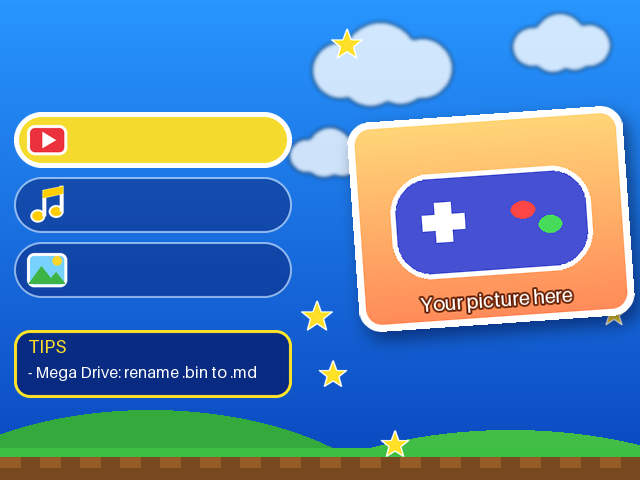
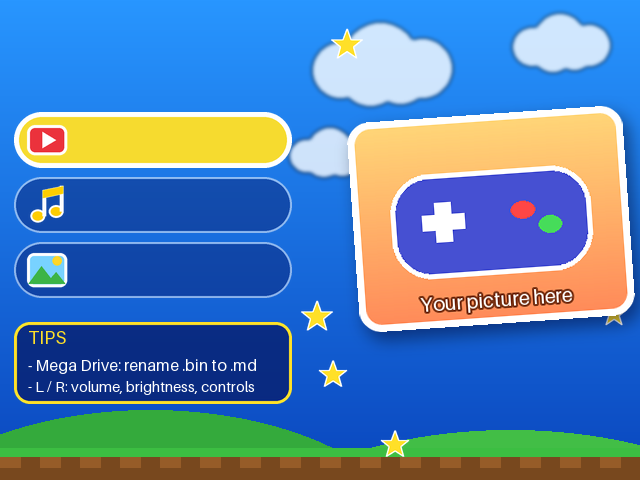
v1.0.2: simple Settings page (volume, brightness, controls per console) + docs

Changed region(s): [[0.0, 0.6562, 0.4688, 0.8438]]

diff --git a/r36skit/build.py b/r36skit/build.py
@@ -134,7 +134,7 @@ def build(cfg_path: Path | None, stock: Path, out: Path, force: bool = False, lo
     log("[2/6] main menu pictures / imagens do menu principal (UI_Res.cpd)")
     raws, shots = screens.build_ui_res_backgrounds(theme)
     rewrite_zip(cubegm / "UI_Res.cpd", ocube / "UI_Res.cpd", {n + ".raw": b for n, b in raws.items()})
-    for name in ("MovieBg", "MusicBg", "PhotoBg", "DOWNLOAD"):
+    for name in ("MovieBg", "MusicBg", "PhotoBg", "DOWNLOAD", "SetVolume", "SetLight", "SetKeyMap"):
         shots[name].convert("RGB").save(preview / ("menu_%s.png" % name))
 
     # 3. resource.cpd: game list, loading, pause, search, footer ------------------------------------------

diff --git a/README.pt-BR.md b/README.pt-BR.md
@@ -9,13 +9,15 @@ Só quatro botões grandes – **Jogos · Vídeos · Músicas · Fotos** – com
 |---|---|---|
 | ![menu](docs/images/menu_MovieBg.png) | ![jogos](docs/images/game_list.png) | ![abertura](docs/images/start_screen.png) |
 
+![ajustes](docs/images/settings.png)
+
 > As imagens acima são os **placeholders** (imagens de exemplo) que já vêm no projeto. Você troca pelas suas em um minuto.
 
-> ⚠ **Status: versão inicial (v1.0.1).** O menu, as alterações de código e a ferramenta foram testados em **um** console real (clone R36SX V2.6, HiChip HC1600A). A *ferramenta de build* e os pacotes com imagens de exemplo foram verificados no PC e a estrutura dos arquivos bate com a original, mas os pacotes **ainda não foram executados num console**. Por favor teste e [abra uma issue](../../issues) com o resultado (funcionou / não, e o seu modelo). Mantenha um backup do cartão SD.
+> ⚠ **Status: versão inicial (v1.0.2).** O menu, as alterações de código e a ferramenta foram testados em **um** console real (clone R36SX V2.6, HiChip HC1600A). A *ferramenta de build* e os pacotes com imagens de exemplo foram verificados no PC e a estrutura dos arquivos bate com a original, mas os pacotes **ainda não foram executados num console**. Por favor teste e [abra uma issue](../../issues) com o resultado (funcionou / não, e o seu modelo). Mantenha um backup do cartão SD.
 
 ## O que você ganha
 
-- 🧒 Menu reduzido a **Jogos / Vídeos / Músicas / Fotos** (ajustes, e-books e lista de consoles ficam ocultos).
+- 🧒 Menu reduzido a **Jogos / Vídeos / Músicas / Fotos**, mais uma página simples de **Ajustes** só com **volume, brilho e controles** (mapeamento de teclas por console). Idioma, tamanho da tela, restaurar de fábrica, e-books e lista de consoles ficam ocultos.
 - 🎨 **Suas cores, textos e idioma** (Português ou English; para outro idioma basta copiar um arquivo de textos) – tudo em um arquivo simples, o `config.toml`.
 - 🖼 **Sua foto** na tela de abertura e um **mascote/logo** nos menus. Sem imagem? Usa uma imagem desenhada.
 - ▶ **Volta ao jogo que estava rodando**: se você desligar o aparelho *jogando*, ele reabre esse jogo ao ligar. Se saiu do jogo antes (ou segurou **B** ao ligar), liga no menu.

diff --git a/README.md b/README.md
@@ -9,13 +9,15 @@ Only four big buttons – **Games · Videos · Music · Photos** – your own co
 |---|---|---|
 | ![menu](docs/images/menu_MovieBg.png) | ![games](docs/images/game_list.png) | ![start](docs/images/start_screen.png) |
 
+![settings](docs/images/settings.png)
+
 > The pictures above are the **built-in placeholders**. You replace them with your own in one minute (see below).
 
-> ⚠ **Status: early release (v1.0.1).** The menu, the code changes and the build tool were tested on **one** real console (R36SX V2.6 clone, HiChip HC1600A). The *build tool* and the placeholder-art packs were checked on a PC and the file structure matches the original, but the packs were **not yet run on a console**. Please test and [open an issue](../../issues) with your result (works / doesn't, and your model). Keep a backup of your SD card.
+> ⚠ **Status: early release (v1.0.2).** The menu, the code changes and the build tool were tested on **one** real console (R36SX V2.6 clone, HiChip HC1600A). The *build tool* and the placeholder-art packs were checked on a PC and the file structure matches the original, but the packs were **not yet run on a console**. Please test and [open an issue](../../issues) with your result (works / doesn't, and your model). Keep a backup of your SD card.
 
 ## What you get
 
-- 🧒 Menu reduced to **Games / Videos / Music / Photos** (settings, e-books and console list are hidden).
+- 🧒 Menu reduced to **Games / Videos / Music / Photos**, plus a simple **Settings** page with only **volume, brightness and controls** (button mapping per console). Language, screen size, factory reset, e-books and the console list are hidden.
 - 🎨 **Your colours, texts, language** (English or Português; add more by copying one text file) – everything in one easy file, `config.toml`.
 - 🖼 **Your photo** on the start screen and a **mascot/logo** on the menus. No picture? A drawn placeholder is used.
 - ▶ **Resume the game you were playing**: if you switch the console off *while playing*, it re-opens that game at the next power-on. If you quit the game first (or hold **B** at power-on) it starts in the menu.

diff --git a/docs/pt-BR/GUIA.md b/docs/pt-BR/GUIA.md
@@ -64,7 +64,10 @@ Copie tudo que está dentro de **`output`** (as pastas `cubegm` e `roms`) para a
 
 | Você faz | O que acontece |
 |---|---|
-| **L1 / R1** | Alterna entre Jogos, Vídeos, Músicas, Fotos |
+| **L1 / R1** | Percorrem as páginas: Jogos → Vídeos/Músicas/Fotos → Ajustes |
+| Página **Ajustes**: cima / baixo | Escolhem Volume, Brilho ou Controles |
+| **Ajustes**: esquerda / direita | Diminuem / aumentam o volume ou o brilho |
+| **Ajustes → Controles**: **A** | Abre o mapeamento de teclas; **L1 / R1** trocam o console, as setas escolhem o botão, **A** atribui, **B** volta (cada console guarda o seu mapeamento) |
 | **A** | Abrir / entrar |
 | **X** sobre um jogo da lista | Exclui o jogo, a capa e os arquivos de mesmo nome (pergunta antes) |
 | **X** sobre um slot em Pausa → Carregar / Salvar | Exclui aquele save (pergunta antes) |

diff --git a/docs/en/HOW-IT-WORKS.md b/docs/en/HOW-IT-WORKS.md
@@ -24,7 +24,7 @@ The program is changed by **hooks**: a `j cave; nop` placed over one instruction
 
 | Module | What it does |
 |---|---|
-| `menu_lock.py` | Only 3 media buttons + Games; hides settings / e-books / console list |
+| `menu_lock.py` | Only 3 media buttons + Games; the Settings page only visits volume, brightness and controls (up/down skip language, screen size and factory reset); hides e-books / console list |
 | `listfilter.py` | Hides `.bin` and the `images` folder in the game list |
 | `resume_covers.py` | Cover thumbnails (+ "no cover" picture), opens the game at power-on **only if the console was switched off while playing** (the file `cubegm/lastgame.txt` is deleted when the game ends or when a start does not resume) |
 | `deletegame.py` | X → confirm → run `delgame.sh` (which deletes game, cue files, same-name files, covers) |

diff --git a/docs/pt-BR/COMO-FUNCIONA.md b/docs/pt-BR/COMO-FUNCIONA.md
@@ -24,7 +24,7 @@ O programa é alterado por **ganchos**: um `j cave; nop` colocado sobre uma inst
 
 | Módulo | O que faz |
 |---|---|
-| `menu_lock.py` | Só 3 botões de mídia + Jogos; esconde ajustes / e-books / lista de consoles |
+| `menu_lock.py` | Só 3 botões de mídia + Jogos; a página Ajustes só visita volume, brilho e controles (cima/baixo pulam idioma, tamanho da tela e restaurar); esconde e-books / lista de consoles |
 | `listfilter.py` | Esconde `.bin` e a pasta `images` na lista de jogos |
 | `resume_covers.py` | Miniaturas de capa (+ imagem "sem capa"), abre o jogo ao ligar **só se o aparelho foi desligado jogando** (o arquivo `cubegm/lastgame.txt` é apagado quando o jogo termina ou quando uma partida não retoma) |
 | `deletegame.py` | X → confirma → roda `delgame.sh` (apaga jogo, arquivos do cue, de mesmo nome e capas) |

diff --git a/docs/en/GUIDE.md b/docs/en/GUIDE.md
@@ -64,7 +64,10 @@ Copy everything inside **`output`** (the folders `cubegm` and `roms`) to the roo
 
 | You do | What happens |
 |---|---|
-| **L1 / R1** | Switch between Games, Videos, Music, Photos |
+| **L1 / R1** | Go through the pages: Games → Videos/Music/Photos → Settings |
+| **Settings** page: up / down | Choose Volume, Brightness or Controls |
+| **Settings**: left / right | Lower / raise the volume or the brightness |
+| **Settings → Controls**: **A** | Opens the button mapping; **L1 / R1** change the console, up/down/left/right pick a button, **A** assigns it, **B** goes back (each console keeps its own mapping) |
 | **A** | Open / enter |
 | **X** on a game in the list | Delete the game, its cover and files with the same name (asks first) |
 | **X** on a slot in Pause → Load / Save | Delete that save (asks first) |
